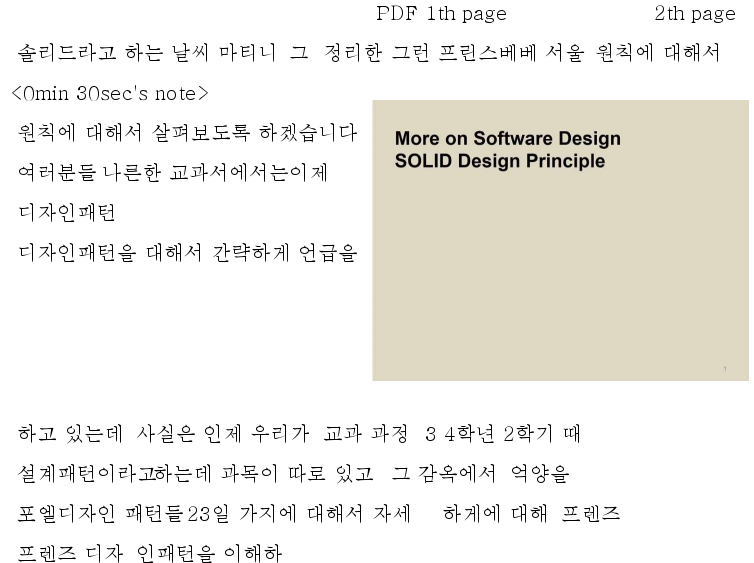
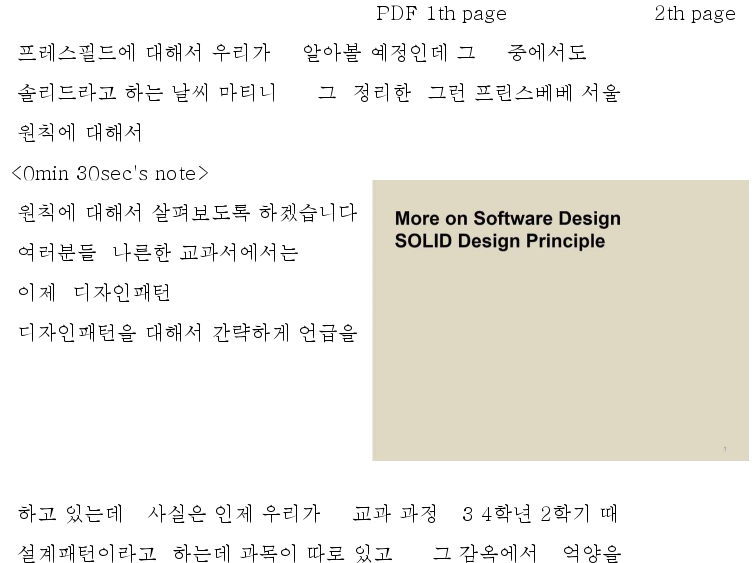
TTI_english space
일단 띄어쓰기

diff --git a/TextToImage/src/test/TextToImgDemo.java b/TextToImage/src/test/TextToImgDemo.java
@@ -8,7 +8,7 @@ import java.util.*;
 public class TextToImgDemo
 {
 	public static void main(String[] args) throws Exception {
-		String[] sttstring = {"이번", " 시간"," 에는","  소피아 디자인의","  관련된 좀 더","  자세한 얘기를 해 보도록 하겠습니다","  앞서 사람들이 그랬을 거라고 나는","  이제 탄다","  실행했을 "," 분리할 수 있는","  소프트","  디젠의 현대 원칙으로 분류할 수 있는","  그런","  것에 대해서 공부를","  한대요 그래서 그만큼","  이제 자주 쓰이는 하고","  이제","  디자인패턴 분야에서는","  어 그래 스프레드 더 많이 쓰이는","  그런","  프레스필드에 대해서 우리가","  알아볼 예정인데 그","  중에서도","  솔리드라고 하는 날씨 마티니","  그","  정리한","  그런 프린스베베 서울","  원칙에 대해서","  원칙에 대해서 살펴보도록 하겠습니다","  여러분들","  나른한 교과서에서는","  이제","  디자인패턴","  디자인패턴을 대해서 간략하게 언급을","  하고 있는데","  사실은 인제 우리가","  교과 과정","  3 4학년 2학기 때","  설계패턴이라고","  하는데 과목이 따로 있고","  그 감옥에서","  억양을","  포엘디자인 패턴들","  23일 가지에 대해서 자세"," 하게에 대해"," 프렌즈","  프렌즈 디자"," 인패턴을 이해하"," 기 위해서","  연필에 대해 알아야 되는 그런","  설계 관련된","  기본적인","  원칙이라고도 보시면 되겠습니다","  그래서","  솔리드","  대해서 이제 우리가","  공부 해 보도록 하고","  20 자세한","  내용은 제가 이제","  별첨으로","  드는","  쏠리는 프린스페 관련된","  아티클에 읽어보지는","  솔리드프로 어떤","  내용을 담고 있는지 그리고","  스케줄 어떻게","  되는지","  더 자세히 볼 수가 있겠습니다","  우리 4학년 2학기","  때","  설계패턴이라고","  하는 방법을 배운다 그랬죠","  그래서 패턴에서는","  돼 목포에","  디자인패턴","  23가지의","  디자인패턴을 정리라고 있는데","  그 중에 한 가지는","  열등전략 배터리 되겠습니다 전략패턴 내용은 간단하게","  정리해서 본다면","  2절 나타내는 것은","  알고리즘에 분들","  정해 라고요","  그리고 그러한 알고리즘들을","  위챗 슬레이트 갖고","  각각의 알고리즘들을","  서로"," 변화"," 시킬 수","  있게","  될 수 있게","  만들어","  줍니다","  결국은","  전략패턴 사용하게","  되면","  클라이언트가","  사용하고 있는","  그런","  알고리즘들이","  클라이언트와","  별개로","  독립적으로","  변할 수 있겠지","  알고리즘에","  변경해","  것을 사용하고 있는","  클라이언트 영향을 미치지 않는다는 뜻이겠죠","  만들어집니다","  자 이렇게 이제 우리 어때 목포에","  디자인패턴을 정렬할 수 있겠는데","  사시는 이렇게만 공부를","  한다면 대단히","  부족한","  그리고","  있는","  그런 디자인","  공부입니다","  왜냐면 이거 같은 레벨에서의","  디자인패턴을 치질은 어떤"," 현실에서 일어"," 나는","  그외디자인","  문제에 있어서","  그런 부장님 제가","  최근에 나온","  경우 책에 나온","  그런","  것들과 조금만 틀어지거나","  혹은","  약간의","  확장을","  욕할 때 하는","  거죠 그래서","  오늘은","  좋은 디자인을","  배우는","  순간에는","  디자인패턴 만","  배우면 충분한 것이 아니라","  그것을","  서포트하고 있는 거","  같은데","  만들어야 돼 더","  근본적인","  객체지향성이 원칙을 연달아입니다","  배웠던 글라스락 패턴도","  객체지향 설계 원칙","  알아볼 수가 없고요 아니라는 것을","  서포트하고 있는"};
+		String[] sttstring = {"how", " ", "", "what ever you do"," we naver give up"," and gonna fight for this"," will bite you","  and also youll be diffeted","  앞서 사람들이 그랬을 거라고 나는","  이제 탄다","  실행했을 "," 분리할 수 있는","  소프트","  디젠의 현대 원칙으로 분류할 수 있는","  그런","  것에 대해서 공부를","  한대요 그래서 그만큼","  이제 자주 쓰이는 하고","  이제","  디자인패턴 분야에서는","  어 그래 스프레드 더 많이 쓰이는","  그런","  프레스필드에 대해서 우리가","  알아볼 예정인데 그","  중에서도","  솔리드라고 하는 날씨 마티니","  그","  정리한","  그런 프린스베베 서울","  원칙에 대해서","  원칙에 대해서 살펴보도록 하겠습니다","  여러분들","  나른한 교과서에서는","  이제","  디자인패턴","  디자인패턴을 대해서 간략하게 언급을","  하고 있는데","  사실은 인제 우리가","  교과 과정","  3 4학년 2학기 때","  설계패턴이라고","  하는데 과목이 따로 있고","  그 감옥에서","  억양을","  포엘디자인 패턴들","  23일 가지에 대해서 자세"," 하게에 대해"," 프렌즈","  프렌즈 디자"," 인패턴을 이해하"," 기 위해서","  연필에 대해 알아야 되는 그런","  설계 관련된","  기본적인","  원칙이라고도 보시면 되겠습니다","  그래서","  솔리드","  대해서 이제 우리가","  공부 해 보도록 하고","  20 자세한","  내용은 제가 이제","  별첨으로","  드는","  쏠리는 프린스페 관련된","  아티클에 읽어보지는","  솔리드프로 어떤","  내용을 담고 있는지 그리고","  스케줄 어떻게","  되는지","  더 자세히 볼 수가 있겠습니다","  우리 4학년 2학기","  때","  설계패턴이라고","  하는 방법을 배운다 그랬죠","  그래서 패턴에서는","  돼 목포에","  디자인패턴","  23가지의","  디자인패턴을 정리라고 있는데","  그 중에 한 가지는","  열등전략 배터리 되겠습니다 전략패턴 내용은 간단하게","  정리해서 본다면","  2절 나타내는 것은","  알고리즘에 분들","  정해 라고요","  그리고 그러한 알고리즘들을","  위챗 슬레이트 갖고","  각각의 알고리즘들을","  서로"," 변화"," 시킬 수","  있게","  될 수 있게","  만들어","  줍니다","  결국은","  전략패턴 사용하게","  되면","  클라이언트가","  사용하고 있는","  그런","  알고리즘들이","  클라이언트와","  별개로","  독립적으로","  변할 수 있겠지","  알고리즘에","  변경해","  것을 사용하고 있는","  클라이언트 영향을 미치지 않는다는 뜻이겠죠","  만들어집니다","  자 이렇게 이제 우리 어때 목포에","  디자인패턴을 정렬할 수 있겠는데","  사시는 이렇게만 공부를","  한다면 대단히","  부족한","  그리고","  있는","  그런 디자인","  공부입니다","  왜냐면 이거 같은 레벨에서의","  디자인패턴을 치질은 어떤"," 현실에서 일어"," 나는","  그외디자인","  문제에 있어서","  그런 부장님 제가","  최근에 나온","  경우 책에 나온","  그런","  것들과 조금만 틀어지거나","  혹은","  약간의","  확장을","  욕할 때 하는","  거죠 그래서","  오늘은","  좋은 디자인을","  배우는","  순간에는","  디자인패턴 만","  배우면 충분한 것이 아니라","  그것을","  서포트하고 있는 거","  같은데","  만들어야 돼 더","  근본적인","  객체지향성이 원칙을 연달아입니다","  배웠던 글라스락 패턴도","  객체지향 설계 원칙","  알아볼 수가 없고요 아니라는 것을","  서포트하고 있는"};
 		ArrayList<String> sttarray = new ArrayList<>(Arrays.asList(sttstring));
 		ArrayList<Integer> change = new ArrayList<>();;
 		change.add(50); // 설계 관련된~

diff --git a/TextToImage/src/test/TextToImg.java b/TextToImage/src/test/TextToImg.java
@@ -4,7 +4,6 @@ import java.awt.*;
 import java.awt.image.BufferedImage;
 import java.io.IOException;
 import java.util.ArrayList;
-
 import java.io.File; //debug for fileIO
 import java.io.FileOutputStream; //debug for fileIO
 import javax.imageio.ImageIO; // debug for fileIO
@@ -137,6 +136,8 @@ public class TextToImg {
 
 			String word = string.get(i);
 			// i초의 word이다. 
+
+			word = " " + spaceRemover(word);
 			if (wordStart + word.length() * (fontSize - 4) + fontSize> widthMargin) {	// line spacing due to lack of right margins
 				wordStart = 10;
 				if (lineStart > height - fontSize * 2){	// init new page when there is no margins to space a line
@@ -146,11 +147,10 @@ public class TextToImg {
 				}
 				lineStart += fontSize * 2;
 			}
-			word = " " + spaceRemover(word);
 			//System.out.println("wordStart = " + wordStart + " | lineStart = " + lineStart); // debugging
 			//System.out.println(word); // debugging
 			graphics.drawString(word,wordStart, lineStart);
-			wordStart += word.length() * (fontSize - 3);
+			wordStart += wordSpace(word);
 			
 		}
 		imageWrite();
@@ -195,5 +195,15 @@ public class TextToImg {
 		String m = Integer.toString(s / 60);
 		String sc = Integer.toString(s % 60);
 		return m+"min "+sc+"sec";
+	}
+	private int wordSpace(String word){
+		if (word.length() == 1) return 0; 
+		int tempLength = 0;
+		for (char c : word.toCharArray()){
+			if (c == ' ') tempLength += fontSize - 15;
+			else if (c > 122) tempLength += (fontSize);
+			else tempLength += (fontSize - 10);
+		}
+		return tempLength;
 	}
 }
